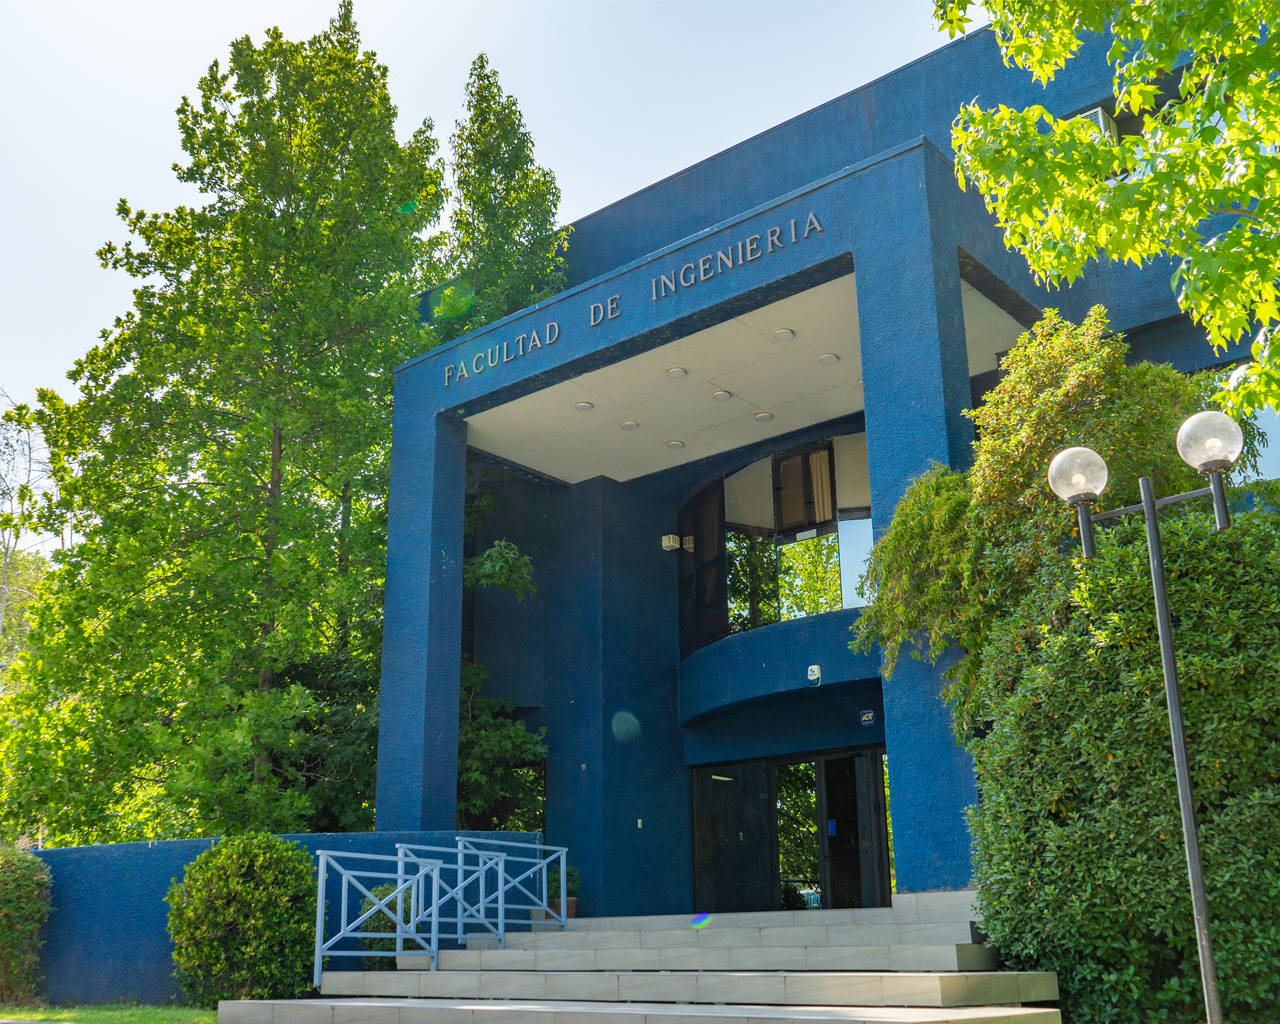
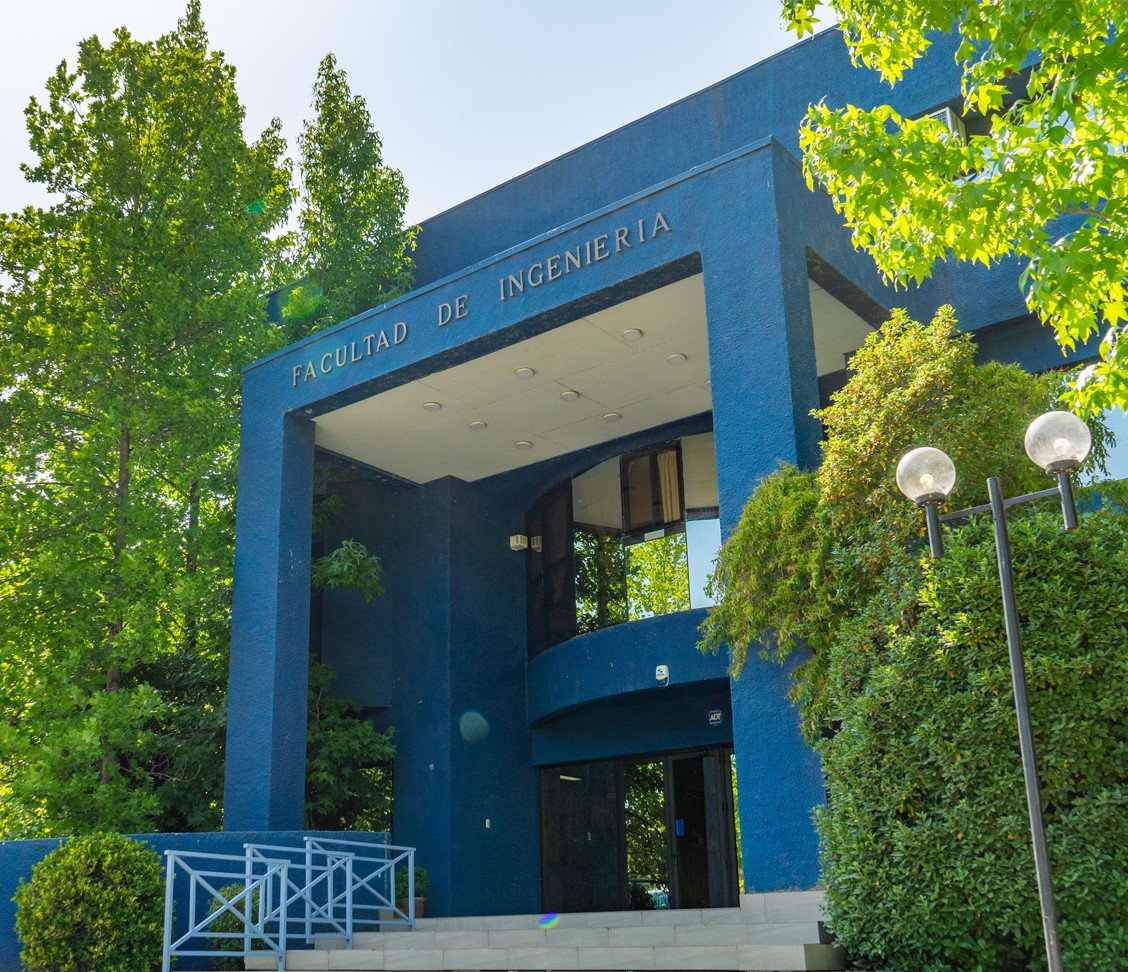
cambio

diff --git a/src/pages/Registro.vue b/src/pages/Registro.vue
@@ -72,9 +72,7 @@
         <div class="toggle-container">
           <div class="toggle">
             <div class="toggle-panel toggle-left">
-              <h1>Bienvenido</h1>
-              <p>Crea tu cuenta</p>
-              <img src="../assets/img/foto.jpeg" alt="Imagen de ejemplo">
+              <img src="../assets/img/Ingenieria.jpg" alt="Imagen de ejemplo">
             </div>
           </div>
         </div>
@@ -410,21 +408,24 @@ form .button input:hover {
 
 
 .toggle{
-    background-color: #512da8;
     height: 100%;
     background: linear-gradient(to right, #5c6bc0, #512da8);
     color: #fff;
     position: relative;
-    left: -100%;
-    height: 100%;
-    width: 200%;
+    width: 100%;
     transform: translateX(0);
     transition: all 0.6s ease-in-out;
+    border-radius: 15px; /* Agrega bordes redondeados */
+    padding-left: 1%;
+    padding-top: 1%;
+    padding-bottom: 1%;
 }
 
 .toggle-panel img {
   width: 100%; /* Ajusta el ancho de la imagen al 100% del contenedor */
-  height: 100px; /* Ajusta la altura automáticamente para mantener la proporción */
+  height: 100%; /* Ajusta la altura automáticamente para mantener la proporción */
+  border-radius: 30px; /* Agrega bordes redondeados */
+  object-fit: cover; /* Ajusta el tamaño y recorta la imagen para que llene el contenedor */
 }
 
 
